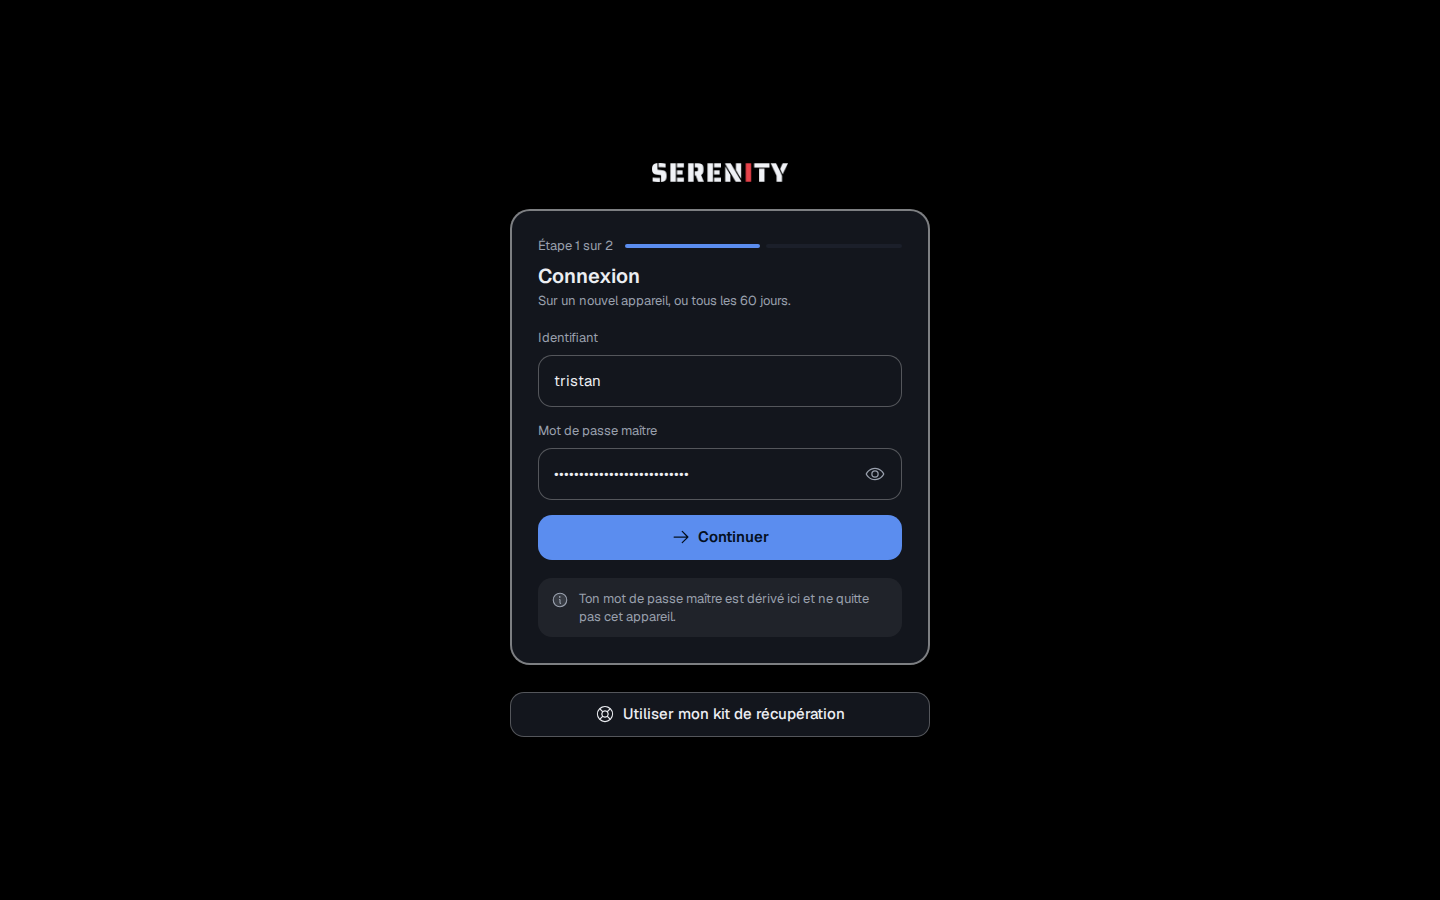
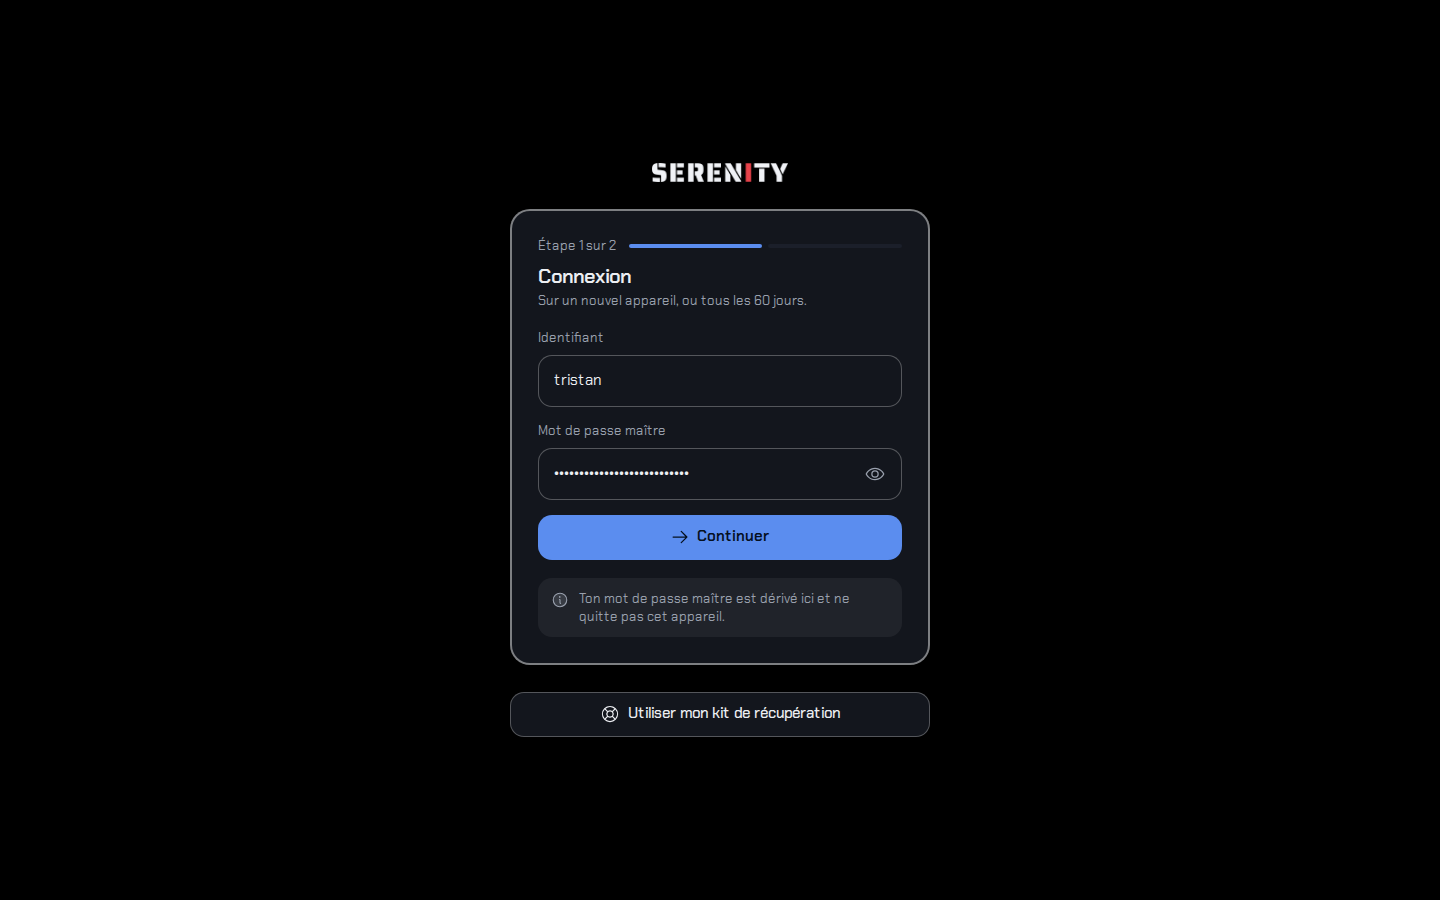
feat(ui): toute l'interface passe en Chakra Petch
Choisie par Tristan sur une maquette qui montrait le même écran en Geist, en
Black Ops One, en Chakra Petch et en Saira.

Geist était neutre, ce qui était bien tant que la marque ne disait rien. Depuis
le bleu blanc rouge et les titres au pochoir, elle ne suivait plus. Chakra Petch
a des lettres droites et des angles coupés : elle prolonge le titre sans crier,
et elle reste lisible à 13 px, ce que Black Ops One ne fait pas.

- Trois graisses servies localement (400, 500, 600), moins de 30 Ko à elles
  toutes. La police n'est pas variable, donc un fichier par graisse.
- Geist sort du dépôt, licence comprise. Le préchargement de la page pointe
  maintenant sur Chakra Petch 400.
- La bannière du dépôt suit : accroche et pastilles dans la même police.
- Captures de la documentation refaites, en sombre et en clair.

Claude-Session: https://claude.ai/code/session_017a28Z7BitobubucsP3B1ue

diff --git a/web/src/design/theme.css b/web/src/design/theme.css
@@ -44,10 +44,10 @@
   --rain-trail: 226 232 240;
   --rain-alpha: 0.34;
 
-  --font-sans: "Geist", ui-sans-serif, system-ui, sans-serif;
+  --font-sans: "Chakra Petch", ui-sans-serif, system-ui, sans-serif;
   --font-mono: "JetBrains Mono", ui-monospace, monospace;
   /* The logotype's manner, in a real typeface: screen titles, and nothing else. */
-  --font-stencil: "Black Ops One", "Geist", ui-sans-serif, sans-serif;
+  --font-stencil: "Black Ops One", "Chakra Petch", ui-sans-serif, sans-serif;
 
   /* Four sizes: display is reserved for page titles on a wide screen. */
   --text-display: 26px;
@@ -131,10 +131,25 @@
   }
 }
 
+/* One file per weight: Chakra Petch is not a variable font. */
 @font-face {
-  font-family: "Geist";
-  src: url("/fonts/geist-latin.woff2") format("woff2");
-  font-weight: 400 600;
+  font-family: "Chakra Petch";
+  src: url("/fonts/chakra-petch-400-latin.woff2") format("woff2");
+  font-weight: 400;
+  font-display: swap;
+}
+
+@font-face {
+  font-family: "Chakra Petch";
+  src: url("/fonts/chakra-petch-500-latin.woff2") format("woff2");
+  font-weight: 500;
+  font-display: swap;
+}
+
+@font-face {
+  font-family: "Chakra Petch";
+  src: url("/fonts/chakra-petch-600-latin.woff2") format("woff2");
+  font-weight: 600;
   font-display: swap;
 }
 

diff --git a/scripts/banniere.html b/scripts/banniere.html
@@ -9,9 +9,19 @@
     <meta charset="utf-8" />
     <style>
       @font-face {
-        font-family: "Geist";
-        src: url("../web/public/fonts/geist-latin.woff2") format("woff2");
-        font-weight: 400 600;
+        font-family: "Chakra Petch";
+        src: url("../web/public/fonts/chakra-petch-400-latin.woff2") format("woff2");
+        font-weight: 400;
+      }
+      @font-face {
+        font-family: "Chakra Petch";
+        src: url("../web/public/fonts/chakra-petch-500-latin.woff2") format("woff2");
+        font-weight: 500;
+      }
+      @font-face {
+        font-family: "Chakra Petch";
+        src: url("../web/public/fonts/chakra-petch-600-latin.woff2") format("woff2");
+        font-weight: 600;
       }
       :root {
         --bleu: #3b7dd8;
@@ -31,7 +41,7 @@
         overflow: hidden;
         position: relative;
         background: #05070c;
-        font-family: "Geist", system-ui, sans-serif;
+        font-family: "Chakra Petch", system-ui, sans-serif;
         -webkit-font-smoothing: antialiased;
       }
       /* One light source, behind the padlock, in the accent blue. Nothing else moves. */

diff --git a/web/index.html b/web/index.html
@@ -11,7 +11,13 @@
     <title>Serenity</title>
     <link rel="icon" href="/icon.svg" type="image/svg+xml" />
     <link rel="apple-touch-icon" href="/apple-touch-icon.png" />
-    <link rel="preload" href="/fonts/geist-latin.woff2" as="font" type="font/woff2" crossorigin />
+    <link
+      rel="preload"
+      href="/fonts/chakra-petch-400-latin.woff2"
+      as="font"
+      type="font/woff2"
+      crossorigin
+    />
   </head>
   <body>
     <div id="root"></div>

diff --git a/web/public/fonts/README.md b/web/public/fonts/README.md
@@ -2,14 +2,19 @@
 
 Servies localement (aucune requête vers Google Fonts à l'utilisation, CSP `font-src 'self'`).
 
-| Fichier                      | Police                               | Sous-ensemble        | Licence                          |
-| ---------------------------- | ------------------------------------ | -------------------- | -------------------------------- |
-| `geist-latin.woff2`          | Geist (variable, 400 à 600)          | latin (U+0000-00FF…) | [OFL 1.1](OFL-Geist.txt)         |
-| `jetbrains-mono-latin.woff2` | JetBrains Mono (variable, 400 à 500) | latin                | [OFL 1.1](OFL-JetBrainsMono.txt) |
-| `black-ops-one-latin.woff2`  | Black Ops One (400)                  | latin                | [OFL 1.1](OFL-BlackOpsOne.txt)   |
+| Fichier                        | Police                               | Sous-ensemble        | Licence                          |
+| ------------------------------ | ------------------------------------ | -------------------- | -------------------------------- |
+| `chakra-petch-400-latin.woff2` | Chakra Petch 400                     | latin (U+0000-00FF…) | [OFL 1.1](OFL-ChakraPetch.txt)   |
+| `chakra-petch-500-latin.woff2` | Chakra Petch 500                     | latin                | [OFL 1.1](OFL-ChakraPetch.txt)   |
+| `chakra-petch-600-latin.woff2` | Chakra Petch 600                     | latin                | [OFL 1.1](OFL-ChakraPetch.txt)   |
+| `jetbrains-mono-latin.woff2`   | JetBrains Mono (variable, 400 à 500) | latin                | [OFL 1.1](OFL-JetBrainsMono.txt) |
+| `black-ops-one-latin.woff2`    | Black Ops One (400)                  | latin                | [OFL 1.1](OFL-BlackOpsOne.txt)   |
 
-Black Ops One ne sert qu'aux **titres d'écran**, en capitales : c'est le pochoir du logotype,
-en vraie police. Nulle part ailleurs.
+**Chakra Petch** porte toute l'interface. Elle n'est pas variable : une graisse, un fichier,
+et l'appli n'en utilise que trois. Les trois pèsent moins de 30 Ko à elles toutes.
 
-Source : Google Fonts (geist v5, jetbrainsmono v24, récupérées le 2026-09-18 ; blackopsone v21,
-récupérée le 2026-09-20).
+**Black Ops One** ne sert qu'aux **titres d'écran**, en capitales : c'est le pochoir du
+logotype, en vraie police. Nulle part ailleurs.
+
+Source : Google Fonts (jetbrainsmono v24, récupérée le 2026-09-18 ; blackopsone v21 et
+chakrapetch v13, récupérées le 2026-09-20).

diff --git a/docs/design.md b/docs/design.md
@@ -219,8 +219,13 @@ et il suit en direct : le basculement automatique du soir change l'appli sans la
 **Les titres d'écran sont dans le pochoir du logotype** : capitales, interlettrage large,
 centrées sous la marque, et dessinées dans la même famille de lettres que « SEREN**I**TY ».
 C'est Black Ops One, la seule police à fentes de l'appli, et elle ne sert **qu'à ça** : trois
-mots par écran, jamais une phrase. Le reste est en Geist (interface) et JetBrains Mono (codes,
-clés, heures du journal). Les trois sont servies localement (`web/public/fonts/`, licence OFL). **Quatre tailles** : `text-display` 26 px (titre d'écran sur
+mots par écran, jamais une phrase. Le reste est en **Chakra Petch** (toute l'interface) et
+JetBrains Mono (codes, clés, heures du journal). Les trois sont servies localement
+(`web/public/fonts/`, licence OFL).
+
+Chakra Petch a été choisie contre Geist, qui tenait ce rôle avant : ses lettres droites et ses
+angles coupés prolongent le pochoir du titre sans crier, là où Geist était neutre. Elle n'est
+pas variable, donc l'appli n'embarque que les trois graisses dont elle se sert (400, 500, 600). **Quatre tailles** : `text-display` 26 px (titre d'écran sur
 ordinateur seulement), `text-title` 20 px semi-gras, `text-body` 15 px, `text-caption` 13 px.
 
 ## Formes

diff --git a/CHANGELOG.md b/CHANGELOG.md
@@ -102,6 +102,11 @@ versionnage : [SemVer](https://semver.org/lang/fr/).
 
 ### Ajouté
 
+- **Toute l'interface passe en Chakra Petch.** Geist sort du projet : ses lettres étaient
+  neutres, celles-ci sont droites et coupées, et prolongent le pochoir du titre sans crier.
+  Choisie après comparaison sur un vrai écran, contre Geist, Black Ops One et Saira. Trois
+  graisses servies localement (400, 500, 600), moins de 30 Ko à elles toutes, licence OFL.
+  La bannière du dépôt suit.
 - **Les titres d'écran passent au pochoir du logotype.** « COFFRE », « FUITES » et « AGENT »
   sont maintenant dessinés dans les mêmes lettres que « SERENITY », avec Black Ops One servie
   localement comme les deux autres polices. Elle ne sert qu'aux titres : trois mots par écran,
